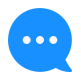
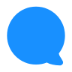
new cyan/blue theme

diff --git a/kawa.js b/kawa.js
@@ -16,5 +16,5 @@ const theme_cyan = {
 
 module.exports = {
   AppKey: "J3PDS76SH6JASQHX2QAY5VQ3QINXIYLEMVIREFADB7Z2BHCWC3VA====",
-  Theme: theme_default,
+  Theme: theme_blue,
 }
